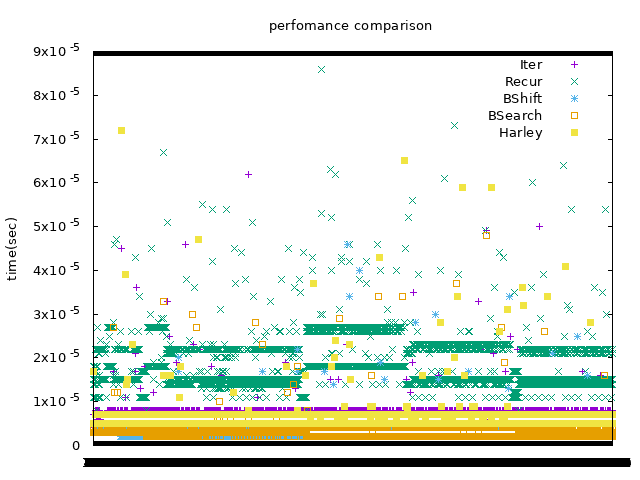
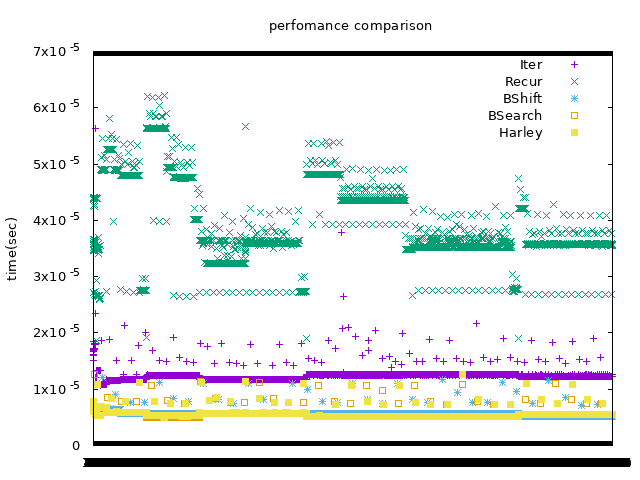
v2

diff --git a/clz.c b/clz.c
@@ -1,72 +1,107 @@
 #include <stdint.h>
 #include "clz.h"
 
-uint8_t clz_byteshift(uint32_t x) {
-	if (x == 0) return 32;
-	int n = 1;
-	if ((x >> 16) == 0) { n += 16; x <<= 16; }
-	if ((x >> 24) == 0) { n += 8; x <<= 8; }
-	if ((x >> 28) == 0) { n += 4; x <<= 4; }
-	if ((x >> 30) == 0) { n += 2; x <<= 2; }
-	n = n - (x >> 31);
-	return n;
+uint8_t clz_byteshift(uint32_t x)
+{
+    if (x == 0) return 32;
+    int n = 1;
+    if ((x >> 16) == 0) {
+        n += 16;
+        x <<= 16;
+    }
+    if ((x >> 24) == 0) {
+        n += 8;
+        x <<= 8;
+    }
+    if ((x >> 28) == 0) {
+        n += 4;
+        x <<= 4;
+    }
+    if ((x >> 30) == 0) {
+        n += 2;
+        x <<= 2;
+    }
+    n = n - (x >> 31);
+    return n;
 }
 
-uint8_t clz_bsearch(uint32_t x) {
-	if (x == 0) return 32;
-	int n = 0;
-	if (x <= 0x0000FFFF) { n += 16; x <<= 16; }
-	if (x <= 0x00FFFFFF) { n += 8; x <<= 8; }
-	if (x <= 0x0FFFFFFF) { n += 4; x <<= 4; }
-	if (x <= 0x3FFFFFFF) { n += 2; x <<= 2; }
-	if (x <= 0x7FFFFFFF) { n += 1; x <<= 1; }
-	return n;
+uint8_t clz_bsearch(uint32_t x)
+{
+    if (x == 0) return 32;
+    int n = 0;
+    if ((x & 0xFFFF0000)==0) {
+        n += 16;
+        x <<= 16;
+    }
+    if ((x & 0xFF000000)==0) {
+        n += 8;
+        x <<= 8;
+    }
+    if ((x & 0xF0000000)==0) {
+        n += 4;
+        x <<= 4;
+    }
+    if ((x & 0xC0000000)==0) {
+        n += 2;
+        x <<= 2;
+    }
+    if ((x & 0x80000000)==0) {
+        n += 1;
+        x <<= 1;
+    }
+    return n;
 }
 
 #define MASK(x) ((1LL << (x)) - 1)
 uint8_t clz_recur(uint32_t x)
 {
-	if(x == 0xFFFFFFFF) return 0;
-	if(x == 0x7FFFFFFF) return 1;
-	uint8_t tailingF = (0x0000FFFF == (x & 0x0000FFFF)) * 16 +
-										 (0x00FFFFFF == (x & 0x00FFFFFF)) * 8 +
-										 (0x0FFFFFFF == (x & 0x0FFFFFFF)) * 4 +
-										 (0x3FFFFFFF == (x & 0x3FFFFFFF)) * 2 +
-										 (0x7FFFFFFF == (x & 0x7FFFFFFF)) * 1;
-	uint8_t range = (32 - tailingF)>>1;
+    if(x == 0xFFFFFFFF) return 0;
+    if(x == 0x7FFFFFFF) return 1;
+    uint8_t tailingF = (0x0000FFFF == (x & 0x0000FFFF)) * 16 +
+                       (0x00FFFFFF == (x & 0x00FFFFFF)) * 8 +
+                       (0x0FFFFFFF == (x & 0x0FFFFFFF)) * 4 +
+                       (0x3FFFFFFF == (x & 0x3FFFFFFF)) * 2 +
+                       (0x7FFFFFFF == (x & 0x7FFFFFFF)) * 1;
+    uint8_t range = (32 - tailingF)>>1;
 
-	uint32_t upper = (x >> tailingF) >> range;
-	return upper ? clz_recur(x | MASK(tailingF + range))  :
-			range + clz_recur((x << range) | MASK(range));
+    uint32_t upper = (x >> tailingF) >> range;
+    return upper ? clz_recur(x | MASK(tailingF + range))  :
+           range + clz_recur((x << range) | MASK(range));
 }
 
-uint8_t clz_iter(uint32_t x) {
-	int n = 32, c = 16;
-	do {
-		uint32_t y = x >> c;
-		if (y) { n -= c; x = y; }
-		c >>= 1;
-	} while (c);
-	return (n - x);
+uint8_t clz_iter(uint32_t x)
+{
+    int n = 32, c = 16;
+    do {
+        uint32_t y = x >> c;
+        if (y) {
+            n -= c;
+            x = y;
+        }
+        c >>= 1;
+    } while (c);
+    return (n - x);
 }
 
-uint8_t clz_harley(uint32_t x) {
+uint8_t clz_harley(uint32_t x)
+{
 
-	static char table[64] =
-	{32,31, 0,16, 0,30, 3, 0,  15, 0, 0, 0,29,10, 2, 0,
-		0, 0,12,14,21, 0,19, 0,   0,28, 0,25, 0, 9, 1, 0,
-		17, 0, 4, 0, 0, 0,11, 0,  13,22,20, 0,26, 0, 0,18,
-		5, 0, 0,23, 0,27, 0, 6,   0,24, 7, 0, 8, 0, 0, 0};
+    static char table[64] = {
+        32,31, 0,16, 0,30, 3, 0,  15, 0, 0, 0,29,10, 2, 0,
+        0, 0,12,14,21, 0,19, 0,   0,28, 0,25, 0, 9, 1, 0,
+        17, 0, 4, 0, 0, 0,11, 0,  13,22,20, 0,26, 0, 0,18,
+        5, 0, 0,23, 0,27, 0, 6,   0,24, 7, 0, 8, 0, 0, 0
+    };
 
-	x = x | (x >> 1);    // Propagate leftmost
-	x = x | (x >> 2);    // 1-bit to the right.
-	x = x | (x >> 4);
-	x = x | (x >> 8);
-	x = x | (x >> 16);
-	x = (x << 3) - x;    // Multiply by 7.
-	x = (x << 8) - x;    // Multiply by 255.
-	x = (x << 8) - x;    // Again.
-	x = (x << 8) - x;    // Again.
-	return table[x >> 26];
+    x = x | (x >> 1);    // Propagate leftmost
+    x = x | (x >> 2);    // 1-bit to the right.
+    x = x | (x >> 4);
+    x = x | (x >> 8);
+    x = x | (x >> 16);
+    x = (x << 3) - x;    // Multiply by 7.
+    x = (x << 8) - x;    // Multiply by 255.
+    x = (x << 8) - x;    // Again.
+    x = (x << 8) - x;    // Again.
+    return table[x >> 26];
 }
 

diff --git a/benchmark_clock_gettime.c b/benchmark_clock_gettime.c
@@ -6,6 +6,11 @@
 #define CLOCK_ID CLOCK_MONOTONIC_RAW
 #define ONE_SEC 1000000000.0
 
+static double diff_in_second(struct timespec start, struct timespec end)
+{
+    return (double)(end.tv_sec - start.tv_sec) + (end.tv_nsec - start.tv_nsec)/ONE_SEC;
+}
+
 int main(int argc, char const *argv[])
 {
     struct timespec start = {0, 0};
@@ -14,53 +19,61 @@ int main(int argc, char const *argv[])
     if (argc < 2) return -1;
 
     int N = atoi(argv[1]);
-    int i, loop = 200;
+    double cpu_time1;
+    int LOOP = 500;
+    double *sav = (double*)malloc(sizeof(double)*(N+3)*5);
 
     // iter
-    clock_gettime(CLOCK_ID, &start);
-    for(i = 0; i < loop; i++) {
-        clz_iter(N);
+    for(int i = 1; i <= N; i++) {
+        clock_gettime(CLOCK_ID, &start);
+        for(int j = 0; j < LOOP; j++)
+            clz_iter(i);
+        clock_gettime(CLOCK_ID, &end);
+        cpu_time1 = diff_in_second(start, end);
+        sav[5*i + 0] = cpu_time1;
     }
-    clock_gettime(CLOCK_ID, &end);
-    printf("%lf ", (double) (end.tv_sec - start.tv_sec) +
-           (end.tv_nsec - start.tv_nsec)/ONE_SEC);
 
     // recur
-    clock_gettime(CLOCK_ID, &start);
-    for(i = 0; i < loop; i++) {
-        clz_recur(N);
+    for(int i = 1; i <= N; i++) {
+        clock_gettime(CLOCK_ID, &start);
+        for(int j = 0; j < LOOP; j++)
+            clz_recur(i);
+        clock_gettime(CLOCK_ID, &end);
+        cpu_time1 = diff_in_second(start, end);
+        sav[5*i + 1] = cpu_time1;
     }
-    clock_gettime(CLOCK_ID, &end);
-    printf("%lf ", (double) (end.tv_sec - start.tv_sec) +
-           (end.tv_nsec - start.tv_nsec)/ONE_SEC);
-
 
     // byte_shift
-    clock_gettime(CLOCK_ID, &start);
-    for(i = 0; i < loop; i++) {
-        clz_byteshift(N);
+    for(int i = 1; i <= N; i++) {
+        clock_gettime(CLOCK_ID, &start);
+        for(int j = 0; j < LOOP; j++)
+            clz_byteshift(i);
+        clock_gettime(CLOCK_ID, &end);
+        cpu_time1 = diff_in_second(start, end);
+        sav[5*i + 2] = cpu_time1;
     }
-    clock_gettime(CLOCK_ID, &end);
-    printf("%lf ", (double) (end.tv_sec - start.tv_sec) +
-           (end.tv_nsec - start.tv_nsec)/ONE_SEC);
 
     // bsearch
-    clock_gettime(CLOCK_ID, &start);
-    for(i = 0; i < loop; i++) {
-        clz_bsearch(N);
+    for(int i = 1; i <= N; i++) {
+        clock_gettime(CLOCK_ID, &start);
+        for(int j = 0; j < LOOP; j++)
+            clz_bsearch(i);
+        clock_gettime(CLOCK_ID, &end);
+        cpu_time1 = diff_in_second(start, end);
+        sav[5*i + 3] = cpu_time1;
     }
-    clock_gettime(CLOCK_ID, &end);
-    printf("%lf ", (double) (end.tv_sec - start.tv_sec) +
-           (end.tv_nsec - start.tv_nsec)/ONE_SEC);
 
     // harley
-    clock_gettime(CLOCK_ID, &start);
-    for(i = 0; i < loop; i++) {
-        clz_harley(N);
+    for(int i = 1; i <= N; i++) {
+        clock_gettime(CLOCK_ID, &start);
+        for(int j = 0; j < LOOP; j++)
+            clz_bsearch(i);
+        clock_gettime(CLOCK_ID, &end);
+        cpu_time1 = diff_in_second(start, end);
+        sav[5*i + 4] = cpu_time1;
     }
-    clock_gettime(CLOCK_ID, &end);
-    printf("%lf\n", (double) (end.tv_sec - start.tv_sec) +
-           (end.tv_nsec - start.tv_nsec)/ONE_SEC);
 
+    for(int i = 1; i <= N; i++)
+        printf("%d %.7lf %.7lf %.7lf %.7lf %.7lf\n", i, sav[5*i], sav[5*i+1], sav[5*i +2], sav[5*i +3], sav[5*i+4]);
     return 0;
 }
